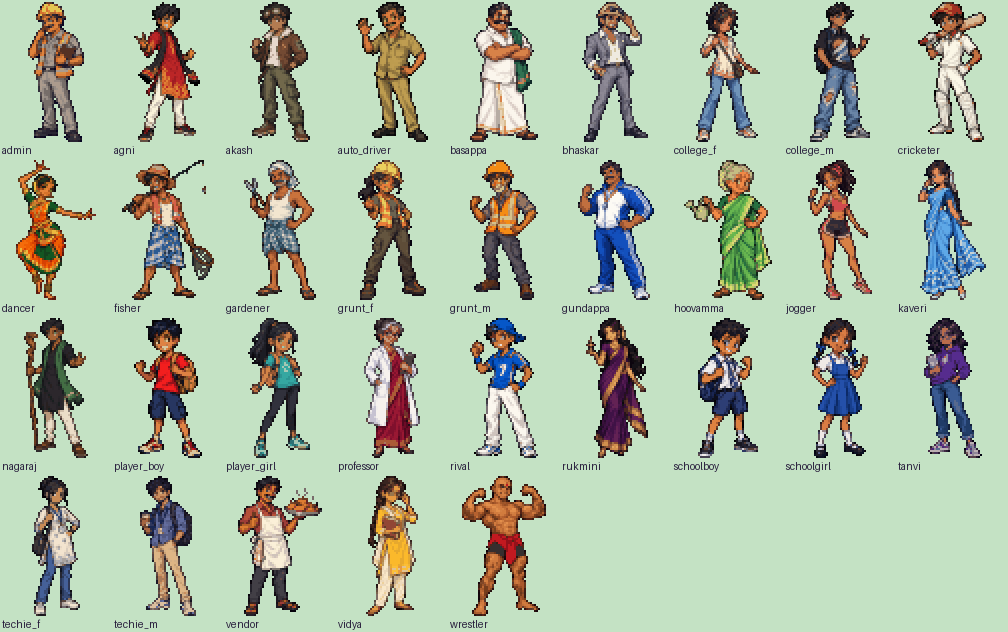
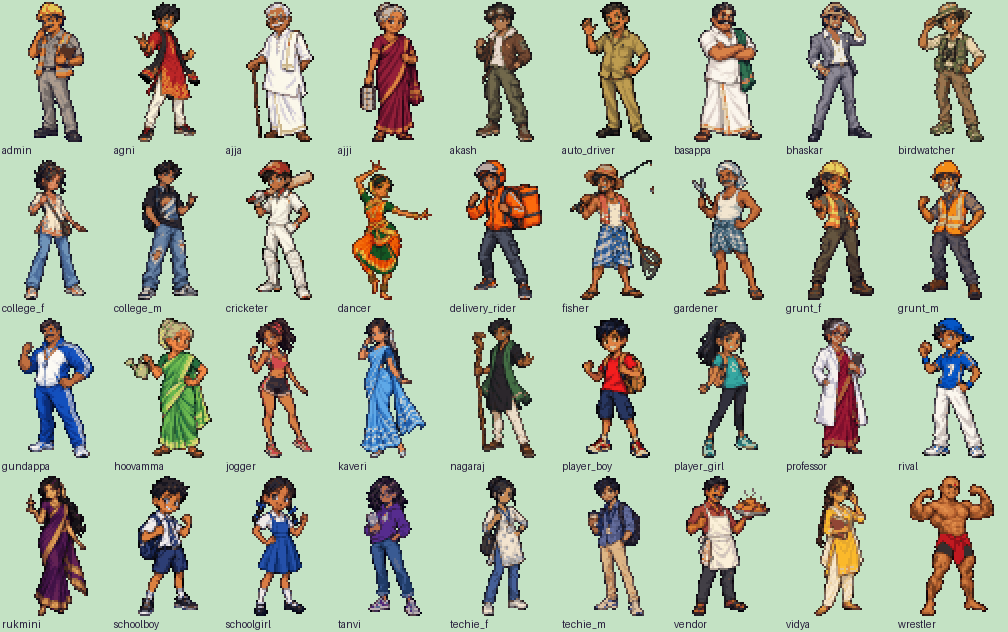
Finish trainer portraits, add reachability check, rebalance bosses
- Last four trainer portraits (ajja, ajji, birdwatcher, delivery rider)
- tools/maps/reachability.py flood-fills every map to prove warps, NPCs,
  items and signs are reachable
- Script lock generation guard so a blackout mid-script can't unbalance
  the lock depth
- New games start in the player's house
- Balance: easier first leader, water line learns Headbutt at 11,
  Pollen Puff moved later, Champion levels lowered

Claude-Session: https://claude.ai/code/session_01J5jAvrsTGADTCZn2pPw5ah

diff --git a/src/scenes/world-scene.js b/src/scenes/world-scene.js
@@ -40,6 +40,8 @@ export class WorldScene extends BaseScene {
     this.sceneData = data || {};
     this.area = this.sceneData.area || dataManager.state.player.location.area;
     this.scriptDepth = 0;
+    // bumped on every (re)start so work started before a restart can't unbalance scriptDepth
+    this.generation = (this.generation || 0) + 1;
     this.transitioning = false;
     this.menuOpen = false;
     /** @type {NPC[]} */
@@ -507,7 +509,7 @@ export class WorldScene extends BaseScene {
    * @param {number} distance tiles between them
    */
   async #trainerSpotsPlayer(npc, distance) {
-    this.scriptDepth += 1;
+    const release = this.lockForScript();
     try {
       playSoundFx(this, AUDIO_KEYS.SFX_EXCLAIM);
       await this.exclaim(npc);
@@ -518,7 +520,7 @@ export class WorldScene extends BaseScene {
       this.player.face(/** @type {any} */ (OPPOSITE[npc.direction]));
       await this.trainerBattle(npc);
     } finally {
-      this.scriptDepth -= 1;
+      release();
     }
   }
 
@@ -553,6 +555,7 @@ export class WorldScene extends BaseScene {
       },
       environment: trainer.environment || this.uru.environment || 'grass',
       canLose: Boolean(trainer.canLose),
+      music: trainer.music ? AUDIO_KEYS[trainer.music] || trainer.music : undefined,
     });
     npc.isTalkingToPlayer = false;
     if (result.outcome === 'win' || (result.outcome === 'lose' && trainer.canLose)) {
@@ -611,9 +614,9 @@ export class WorldScene extends BaseScene {
     }
     const sign = (this.uru.signs || []).find((s) => s.x === tx && s.y === ty);
     if (sign) {
-      this.scriptDepth += 1;
+      const release = this.lockForScript();
       await this.ui.say(sign.text);
-      this.scriptDepth -= 1;
+      release();
       return;
     }
     const itemIdx = this.items.findIndex((i) => i.position.x === target.x && i.position.y === target.y);
@@ -626,9 +629,9 @@ export class WorldScene extends BaseScene {
       dataManager.addItemPickedUp(it.id);
       dataManager.addItem(it.itemId, it.quantity);
       playSoundFx(this, AUDIO_KEYS.SFX_ITEM);
-      this.scriptDepth += 1;
+      const release = this.lockForScript();
       await this.ui.say(`${dataManager.state.player.name} found ${it.quantity > 1 ? `${it.quantity}x ` : 'a '}${data.name}!`);
-      this.scriptDepth -= 1;
+      release();
       return;
     }
     const thing = (this.uru.interactables || []).find((s) => s.x === tx && s.y === ty);
@@ -644,18 +647,18 @@ export class WorldScene extends BaseScene {
       npc.facePlayer(this.player.direction);
     }
     if (def.trainer && !dataManager.isNpcDefeated(def.id)) {
-      this.scriptDepth += 1;
+      const release = this.lockForScript();
       try {
         await this.trainerBattle(npc);
       } finally {
-        this.scriptDepth -= 1;
+        release();
       }
       return;
     }
     npc.isTalkingToPlayer = true;
     if (def.trainer && dataManager.isNpcDefeated(def.id)) {
       const trainer = gameData.trainers[def.trainer];
-      const after = def.after || trainer?.after;
+      const after = def.after || trainer?.after || trainer?.defeat;
       if (after) {
         await this.runScript(Array.isArray(after) && typeof after[0] === 'string' ? [{ say: after, speaker: trainer?.name }] : after, npc);
         npc.isTalkingToPlayer = false;
@@ -685,6 +688,19 @@ export class WorldScene extends BaseScene {
   // scripts, battles, warps
   // ------------------------------------------------------------------------------------------
 
+  /** Locks player input until the returned release function is called (safe across scene restarts). */
+  lockForScript() {
+    const gen = this.generation;
+    this.scriptDepth += 1;
+    let released = false;
+    return () => {
+      if (!released && gen === this.generation) {
+        this.scriptDepth = Math.max(0, this.scriptDepth - 1);
+      }
+      released = true;
+    };
+  }
+
   /**
    * @param {any[]} script
    * @param {NPC} [npc]
@@ -693,13 +709,13 @@ export class WorldScene extends BaseScene {
     if (!script) {
       return;
     }
-    this.scriptDepth += 1;
+    const release = this.lockForScript();
     try {
       await this.scripts.run(script, { npc });
     } catch (e) {
       console.error('[WorldScene] script error', e, script);
     } finally {
-      this.scriptDepth -= 1;
+      release();
     }
   }
 
@@ -709,7 +725,7 @@ export class WorldScene extends BaseScene {
    * @returns {Promise<import('./battle-scene.js').BattleResult>}
    */
   startBattle(data) {
-    this.scriptDepth += 1;
+    const release = this.lockForScript();
     this.ui.close();
     const musicBefore = currentMusic();
     return new Promise((resolve) => {
@@ -717,7 +733,7 @@ export class WorldScene extends BaseScene {
         this.lastBattleResult = result;
         this.scene.resume();
         this.scene.resume(SCENE_KEYS.DIALOG_SCENE);
-        this.scriptDepth -= 1;
+        release();
         if (result.outcome === 'lose' && !result.canLose) {
           this.#blackout();
           resolve(result);

diff --git a/src/main.js b/src/main.js
@@ -22,7 +22,7 @@ import { setupTouchControls } from './input/touch-controls.js';
 import { inputManager } from './input/input-manager.js';
 import { dataManager } from './utils/data-manager.js';
 import { gameData } from './game/game-data.js';
-import { createMonster } from './battle/engine/monster.js';
+import { createMonster, fullyHeal } from './battle/engine/monster.js';
 
 const game = new Phaser.Game({
   type: Phaser.AUTO,
@@ -74,4 +74,4 @@ setupTouchControls();
 
 // handy for debugging and automated tests
 window.__uruGame = game;
-window.__uru = { game, dataManager, gameData, inputManager, createMonster };
+window.__uru = { game, dataManager, gameData, inputManager, createMonster, fullyHeal };

diff --git a/src/utils/data-manager.js b/src/utils/data-manager.js
@@ -73,7 +73,7 @@ function initialState() {
     flags: [],
     defeatedNpcs: [],
     pustaka: { seen: [], caught: [] },
-    respawn: { area: 'player_house_1f', x: 0, y: 0 },
+    respawn: { area: 'player_house_1f', x: 3 * 64, y: 5 * 64 },
     returnPoint: null,
     metroStations: [],
     repelSteps: 0,

diff --git a/tools/maps/reachability.py b/tools/maps/reachability.py
@@ -1,0 +1,109 @@
+"""Static reachability check for every compiled map.
+
+From each map's entry points (warps, spawn), flood-fill walkable tiles. Every warp, NPC, item, sign and
+interactable must touch a reachable tile. NPCs that disappear later (hideIf / showIf) don't count as walls;
+everyone else does. Run after build_maps.py: python3 tools/maps/reachability.py
+"""
+import json
+import os
+import sys
+from collections import deque
+
+ROOT = os.path.dirname(os.path.dirname(os.path.dirname(os.path.abspath(__file__))))
+
+
+def check(map_id):
+    data = json.load(open(os.path.join(ROOT, "assets", "maps", map_id, "map.json")))
+    w, h = data["width"], data["height"]
+    coll = next(l for l in data["layers"] if l["name"] == "Collision")["data"]
+    uru = data["uru"]
+    blocked = {(i % w, i // w) for i, v in enumerate(coll) if v}
+    for n in uru["npcs"]:
+        if "hideIf" not in n and "showIf" not in n:
+            blocked.add((n["x"], n["y"]))
+    for it in uru["items"]:
+        blocked.add((it["x"], it["y"]))
+
+    starts = []
+    step = {"UP": (0, -1), "DOWN": (0, 1), "LEFT": (-1, 0), "RIGHT": (1, 0)}
+    for wp in uru["warps"]:
+        dx, dy = step.get(wp.get("exit", "DOWN"), (0, 1))
+        if wp.get("mode") == "step":
+            starts.append((wp["x"] + dx, wp["y"] + dy))
+        else:
+            starts.append((wp["x"] + dx, wp["y"] + dy))
+    if uru.get("spawn"):
+        starts.append((uru["spawn"]["x"], uru["spawn"]["y"]))
+    seen = set()
+    q = deque(s for s in starts if 0 <= s[0] < w and 0 <= s[1] < h and s not in blocked)
+    seen.update(q)
+    while q:
+        x, y = q.popleft()
+        for dx, dy in step.values():
+            nb = (x + dx, y + dy)
+            if 0 <= nb[0] < w and 0 <= nb[1] < h and nb not in blocked and nb not in seen:
+                seen.add(nb)
+                q.append(nb)
+
+    def touches(x, y):
+        return any((x + dx, y + dy) in seen for dx, dy in step.values()) or (x, y) in seen
+
+    problems = []
+    for s in starts:
+        if s not in seen:
+            problems.append(f"entry tile {s} is blocked")
+    for wp in uru["warps"]:
+        if wp.get("mode") == "arrive":
+            continue
+        if not touches(wp["x"], wp["y"]):
+            problems.append(f"warp {wp['id']} at ({wp['x']},{wp['y']}) unreachable")
+    for n in uru["npcs"]:
+        if not touches(n["x"], n["y"]):
+            problems.append(f"npc {n['id']} at ({n['x']},{n['y']}) unreachable")
+    for it in uru["items"]:
+        if not touches(it["x"], it["y"]):
+            problems.append(f"item {it['id']} at ({it['x']},{it['y']}) unreachable")
+    for s in uru["signs"]:
+        if not touches(s["x"], s["y"]):
+            problems.append(f"sign at ({s['x']},{s['y']}) unreachable")
+    for t in uru.get("interactables", []):
+        if not touches(t["x"], t["y"]):
+            problems.append(f"interactable at ({t['x']},{t['y']}) unreachable")
+    # entries should all be in one connected region (maps split on purpose are listed in SPLIT_OK)
+    comp = {}
+    for s0 in starts:
+        if s0 in comp or s0 in blocked or not (0 <= s0[0] < w and 0 <= s0[1] < h):
+            continue
+        cid = len(set(comp.values()))
+        q2 = deque([s0])
+        comp[s0] = cid
+        while q2:
+            x, y = q2.popleft()
+            for dx, dy in step.values():
+                nb = (x + dx, y + dy)
+                if 0 <= nb[0] < w and 0 <= nb[1] < h and nb not in blocked and nb not in comp:
+                    comp[nb] = cid
+                    q2.append(nb)
+    regions = {comp[s0] for s0 in starts if s0 in comp}
+    if len(regions) > 1 and map_id not in SPLIT_OK:
+        problems.append(f"entries fall into {len(regions)} disconnected regions")
+    return problems, len(seen)
+
+
+SPLIT_OK = {"nandi_hills"}  # lower slope and summit are joined only through the cave
+
+
+def main():
+    index = json.load(open(os.path.join(ROOT, "assets", "maps", "index.json")))
+    total = 0
+    for m in index:
+        problems, n = check(m["id"])
+        for p in problems:
+            print(f"{m['id']}: {p}")
+        total += len(problems)
+    print(f"{len(index)} maps checked, {total} problems")
+    sys.exit(1 if total else 0)
+
+
+if __name__ == "__main__":
+    main()

diff --git a/tools/content/learnsets_data.py b/tools/content/learnsets_data.py
@@ -5,19 +5,19 @@ EXTRA maps a species id to additional [(level, move name), ...] only that specie
 """
 
 LINES = {
-    (1, 2, 3): [(1, "Bump"), (1, "Tail Wag"), (5, "Creeper Lash"), (9, "Pollen Puff"), (13, "Root Drain"),
+    (1, 2, 3): [(1, "Bump"), (1, "Tail Wag"), (5, "Creeper Lash"), (13, "Root Drain"), (16, "Pollen Puff"),
                 (17, "Petal Shower"), (22, "Mallige Scent"), (27, "Headbutt"), (32, "Jacaranda Bloom"),
                 (40, "Thorn Charge"), (46, "Sunbeam")],
     (4, 5, 6): [(1, "Scratch"), (1, "Honk"), (5, "Ember"), (9, "Quick Dash"), (13, "Steam Jet"), (17, "Tandoor Fang"),
                 (22, "Battle Cry"), (27, "Lamp Glow"), (32, "Masala Blaze"), (40, "Filter Crash"), (46, "Kaapi Cannon")],
-    (7, 8, 9): [(1, "Bump"), (1, "Withdraw"), (5, "Squirt"), (9, "Bubble Burst"), (13, "Shell Ram"),
-                (17, "Monsoon Shower"), (22, "Coconut Sip"), (27, "Headbutt"), (32, "Lake Surge"),
+    (7, 8, 9): [(1, "Bump"), (1, "Withdraw"), (5, "Squirt"), (9, "Bubble Burst"), (11, "Headbutt"), (13, "Shell Ram"),
+                (17, "Monsoon Shower"), (22, "Coconut Sip"), (32, "Lake Surge"),
                 (40, "Earth Shake"), (46, "Kere Flood")],
     (10, 11, 12): [(1, "Peck"), (1, "Honk"), (5, "Gust"), (9, "Quick Dash"), (14, "Feather Dance"), (19, "Wing Slice"),
                    (25, "Roost"), (31, "Kite Dive"), (39, "Monsoon Wind"), (45, "Rush Hour")],
     (13, 14): [(1, "Scratch"), (1, "Tail Wag"), (4, "Quick Dash"), (8, "Peanut Toss"), (13, "Fury Swipes"),
                (18, "Headbutt"), (23, "Battle Cry"), (29, "Metal Claw"), (35, "Belly Flop"), (42, "Rush Hour")],
-    (15, 16, 17): [(1, "Bump"), (1, "Silk Thread"), (7, "Cocoon"), (10, "Gust"), (12, "Pollen Puff"), (15, "Swarm"),
+    (15, 16, 17): [(1, "Bump"), (1, "Silk Thread"), (7, "Cocoon"), (10, "Gust"), (14, "Pollen Puff"), (15, "Swarm"),
                    (19, "Lullaby"), (24, "Wing Dust"), (30, "Brain Wave"), (36, "Monsoon Wind")],
     (18, 19): [(1, "Sting"), (1, "Honk"), (6, "Leech Bite"), (11, "Toxic Jab"), (16, "Swarm"), (21, "Toxic Fumes"),
                (26, "Venom Fang"), (32, "Beetle Ram"), (38, "Gunk Shot")],
@@ -56,7 +56,7 @@ LINES = {
             (30, "Pothole"), (36, "Rush Hour"), (42, "Rail Slam")],
     (52, 53): [(1, "Bump"), (1, "Withdraw"), (6, "Creeper Lash"), (11, "Pebble Throw"), (16, "Root Drain"),
                (21, "Thorn Charge"), (27, "Rock Slide"), (33, "Granite Wall"), (40, "Boulder Crash")],
-    (54, 55): [(1, "Creeper Lash"), (1, "Pollen Puff"), (7, "Petal Shower"), (13, "Ember"), (19, "Root Drain"),
+    (54, 55): [(1, "Creeper Lash"), (1, "Tail Wag"), (7, "Petal Shower"), (17, "Pollen Puff"), (13, "Ember"), (19, "Root Drain"),
                (25, "Mallige Scent"), (31, "Steam Jet"), (37, "Jacaranda Bloom"), (43, "Masala Blaze")],
     (56, 57): [(1, "Bump"), (1, "Spark"), (8, "Metal Claw"), (14, "Charge Up"), (20, "Pantograph"),
                (27, "Steel Plating"), (34, "Rail Slam"), (41, "Thunderclap"), (48, "Overload")],

diff --git a/tools/content/trainers_data.py b/tools/content/trainers_data.py
@@ -46,7 +46,7 @@ tr("rival_palace", "Rohan", "Rival", "rival", [(12, 36), (46, 35), (29, 35), (57
    ["...Yeah. You're ready. Let's stop them together. You go first - I'll cover the hill roads."],
    music="MUSIC_RIVAL", ai=2)
 tr("champion", "Rohan", "Champion", "rival",
-   [(12, 50), (57, 51), (41, 50), (50, 51), (46, 50), ("RIVAL:3", 53)],
+   [(12, 44), (57, 45), (41, 44), (50, 45), (46, 44), ("RIVAL:3", 48)],
    ["Hey, {PLAYER}. Surprised? I beat the Council an hour before you.",
     "Every route, every Arena - I was always one step ahead. Or one step behind.",
     "This is it. The Champion of Namma Bengaluru is decided right here. No holding back!"],
@@ -57,14 +57,14 @@ tr("champion", "Rohan", "Champion", "rival",
 # ---------------------------------------------------------------------------------------------
 # Arena leaders
 # ---------------------------------------------------------------------------------------------
-tr("leader_hoovamma", "Hoovamma", "Arena Leader", "hoovamma", [(54, 10), (52, 11), (2, 13)],
+tr("leader_hoovamma", "Hoovamma", "Arena Leader", "hoovamma", [(54, 9), (52, 10), (2, 12)],
    ["Ah, a young visitor in my Glass House! Mind the orchids, dear.",
     "Sixty years I have tended these gardens. Plants are patient, and patience wins battles.",
     "Show me what you have grown into!"],
    ["My, my. You bloom quickly. Take this - the GRASS Badge."],
    after=["Water your Urumon with kindness and they will grow tall.",
           "Keep the GRASS Badge shining, dear. The flower-show crowd will let you pass north now."],
-   ai=2, isLeader=True, environment="arena", music="MUSIC_LEADER")
+   ai=1, isLeader=True, environment="arena", music="MUSIC_LEADER")
 tr("leader_gundappa", "Gundappa", "Arena Leader", "gundappa", [(30, 17), (60, 17), (31, 19)],
    ["Thirty years ago I bowled the fastest spell this stadium ever saw.",
     "Now I coach. Rule one: no fear of the short ball.", "Pad up, kid. Let's play!"],

diff --git a/tools/maps/maps_start.py b/tools/maps/maps_start.py
@@ -20,7 +20,6 @@ MAPS.append(dict(
         dict(x=4, y=2, script=[say("Your summer holiday homework. Untouched since April.")]),
         dict(x=5, y=2, script=[say("Your summer holiday homework. Untouched since April.")]),
         dict(x=7, y=6, script=[say("A shelf crammed with Urumon comics and an old cricket bat.")]),
-        dict(x=7, y=7, script=[say("A shelf crammed with Urumon comics and an old cricket bat.")]),
     ],
 ))
 c, walls = room(11, 8, "t", exit_x=4)

diff --git a/CLAUDE.md b/CLAUDE.md
@@ -34,8 +34,10 @@ look-alike designs, no "Pokémon style" or artist-name prompts for generated art
 | `assets/images/{creatures,trainers,battle,ui}` | raw AI art in `art-src/raw/` (gitignored) | `python3 tools/art/process_art.py all` |
 | `assets/images/characters/*.png` | `tools/art/characters.py` | `python3 tools/art/characters.py` |
 | `assets/audio/**` | `tools/audio/synth.py` | `python3 tools/audio/synth.py` |
+| `assets/images/ui/title_bg.png` | `tools/art/title_art.py` | `python3 tools/art/title_art.py` |
 
-`build_maps.py` validates warps, NPC/item/spawn placement; treat its WARN lines as bugs.
+`build_maps.py` validates warps, NPC/item/spawn placement; `python3 tools/maps/reachability.py` then flood-fills every map
+to prove all warps, NPCs, items and signs are reachable. Treat any WARN or problem line as a bug.
 
 ## Architecture notes that aren't obvious from one file
 
@@ -53,7 +55,12 @@ look-alike designs, no "Pokémon style" or artist-name prompts for generated art
   in `PreloadScene`. Trainer species `"RIVAL:n"` resolves to stage n of Rohan's starter line at runtime.
 - **Council**: entering `council_1` resets the five Council trainers (`resetTrainers`), so losing restarts the run.
 - **Input**: one global `inputManager` merges keyboard and the DOM touch pad; per-scene `Controls` just reads it.
-  Keys typed into `<input>` elements are ignored by the game (used for name entry).
+  Keys typed into `<input>` elements are ignored by the game (used for name entry). A tap shorter than a frame still
+  counts as one step.
+- **Audio**: only SFX and the title theme load before the title screen; `PreloadScene` stays alive to stream the rest
+  and starts a requested track when it arrives. Missing audio keys are silently ignored.
+- **Browser tests drive real key presses**, so their walking is timing-based: run them one at a time (parallel
+  headless browsers on a busy CPU cause missed steps).
 
 ## Art generation (Codex)
 

diff --git a/docs/tasks/review.md b/docs/tasks/review.md
@@ -1,0 +1,19 @@
+# Task: bug review (read-only)
+
+Review uru-mon's core gameplay code for real bugs: softlocks (the player gets stuck with no way to continue),
+crashes, incorrect battle maths, state that isn't saved/restored correctly, promise flows that never resolve, input
+that leaks between scenes, and edge cases (party full, out of PP, all fainted, catching the last Urumon in a trainer
+battle, evolving mid-battle, learning a move with 4 known, blackout during a scripted battle, warping during dialog).
+
+Files, in priority order:
+`src/scenes/battle-scene.js`, `src/battle/engine/battle-engine.js`, `src/battle/engine/monster.js`,
+`src/scenes/world-scene.js`, `src/world/script-runner.js`, `src/world/characters/{character,player,npc}.js`,
+`src/scenes/{monster-party-scene,inventory-scene,dialog-scene}.js`, `src/utils/data-manager.js`,
+`src/input/input-manager.js`, `src/utils/controls.js`. Read `CLAUDE.md` and `docs/DESIGN.md` first for context.
+
+Rules:
+- Do NOT modify any file except creating `art-src/logs/review.md`.
+- In that file list each finding as: severity (high/medium/low), file:line, what goes wrong, a concrete scenario that
+  triggers it, and a suggested fix. Only include issues you are confident are real after reading the code paths
+  involved; skip style nits. If you can verify an engine issue with a quick `node` script against
+  `src/battle/engine/*`, do so and say so.
